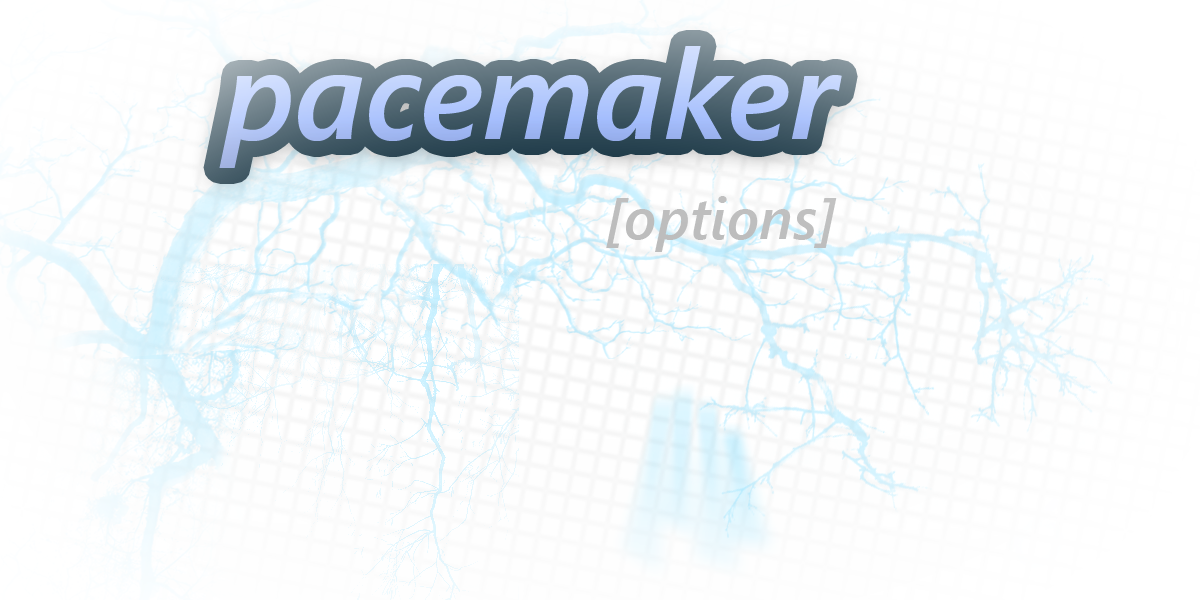
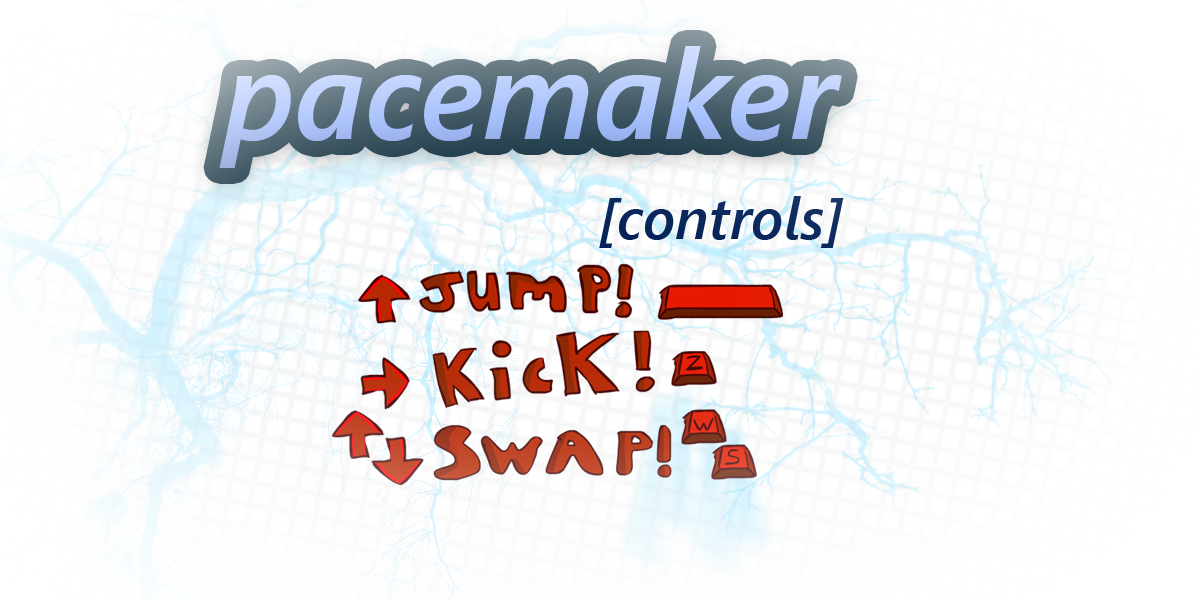
Instructions!

Changed region(s): [[0.2775, 0.33, 0.7092, 0.81]]

diff --git a/setup.js b/setup.js
@@ -458,7 +458,7 @@ gamepad.bind(Gamepad.Event.TICK, function(gamepads) {
 	//Syntax for buttons --> What Gamestate it is at _ What Gamestate it is going to
 	//GAMESTATE_START
 	Button_Start_Play = new Button(900, 280, 120, 50, "Play", ctx, false, "#000000");
-	Button_Start_Options = new Button(900, 355, 180, 50, "Options", ctx, false, "#000000");
+	Button_Start_Options = new Button(900, 355, 180, 50, "Controls", ctx, false, "#000000");
 	Button_Start_Credits = new Button(900, 430, 160, 50, "Credz", ctx, false, "#000000");
 
 	//GAMESTATE_GAMEPLAY
